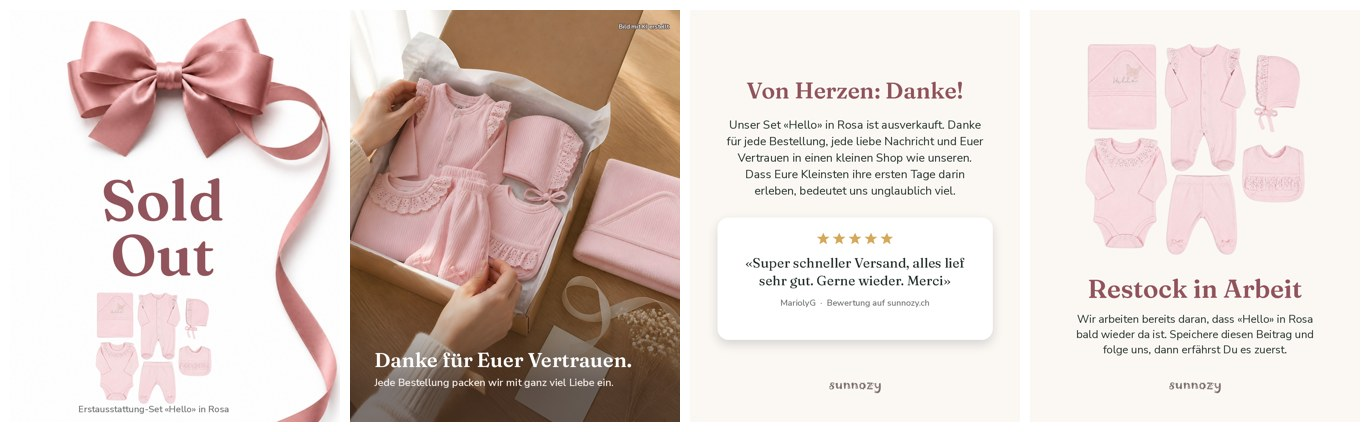
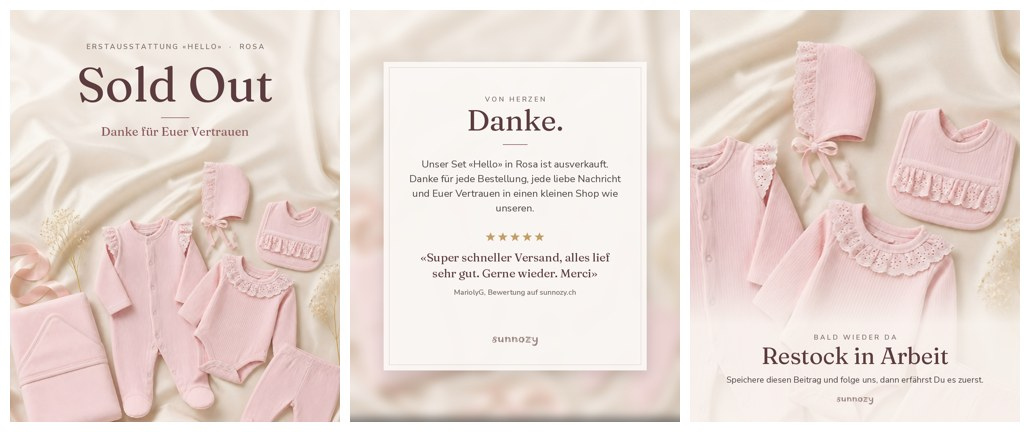
Sold-Out-Post «Hello» Rosa: elegante Version mit Set-Foto im Hintergrund
Claude-Session: https://claude.ai/code/session_01Mcsz2CcqhytaxPLftYR6o2

diff --git a/sunnozy-content/tools/make_post_hello_ausverkauft.py b/sunnozy-content/tools/make_post_hello_ausverkauft.py
@@ -1,32 +1,24 @@
 """Instagram-Karussell (4:5) «Sold Out» für das Erstausstattung-Set «Hello» in Rosa, 27.10.2026.
-Idee der Nutzerin: Schleife mit langem Band und «Sold Out» in einer Serifenschrift (hier Fraunces, keine Schreibschrift).
+Zweite Version (Wunsch der Nutzerin: eleganter, Bild vom Set im Hintergrund): alle drei Bilder auf dem
+KI-Foto des Sets auf cremefarbener Seide, Schrift Fraunces 400 und Nunito Sans (keine Schreibschrift).
 
     python3 tools/make_post_hello_ausverkauft.py
 
-1  Sold Out: Schleife (KI, Canva) + Titel + freigestelltes Set
-2  Danke: KI-Foto, Hände packen das Set in eine Geschenkbox
-3  Danke-Text + echte Bewertung (MariolyG, Judge.me, wörtlich)
-4  Restock in Arbeit (ohne Datum, kein Versprechen)
+1  Sold Out: Set-Foto, Titel oben auf der leeren Seide
+2  Danke: Set-Foto weichgezeichnet, helle Karte mit Danke-Text und echter Bewertung (MariolyG, wörtlich)
+3  Restock in Arbeit: Ausschnitt des Sets, Text unten (ohne Datum)
 Ausgabe: posts/instagram/hello-ausverkauft/slide_<n>_4x5.jpg + uebersicht.jpg
 """
-import os, math
+import os, math, glob
 import numpy as np
 from PIL import Image, ImageDraw, ImageFont, ImageFilter
 
 ROOT = os.path.dirname(os.path.dirname(os.path.abspath(__file__)))
 OUT = os.path.join(ROOT, 'posts', 'instagram', 'hello-ausverkauft')
-BILD = os.path.join(OUT, 'bilder')
-SET = os.path.join(ROOT, 'posts', 'marktplatz-galaxus-amazon', 'freigestellt', 'set_hello_schmetterling.png')
+FOTO = os.path.join(OUT, 'bilder', 'set_seide_ki.jpg')
 W, H = 1080, 1350
-CREME, WALD, GRAU, ROSE, STERN = (251, 248, 244), (35, 48, 41), (112, 118, 114), (146, 84, 92), (214, 168, 92)
+TIEF, ROSE, TAUPE, STERN = (92, 60, 62), (138, 86, 92), (124, 108, 102), (196, 158, 104)
 F = lambda n, s: ImageFont.truetype(os.path.join(ROOT, 'fonts', n), int(s))
-
-
-def fuellen(im, w, h, fx=0.5, fy=0.5):
-    s = max(w / im.width, h / im.height)
-    t = im.resize((round(im.width * s), round(im.height * s)), Image.LANCZOS)
-    x = int((t.width - w) * fx); y = int((t.height - h) * fy)
-    return t.crop((x, y, x + w, y + h))
 
 
 def logo(width, col):
@@ -35,6 +27,14 @@ def logo(width, col):
     L = Image.new('RGBA', (a.shape[1], a.shape[0]), col + (0,)); L.putalpha(Image.fromarray((al * 255).astype(np.uint8)))
     L = L.crop(L.getbbox())
     return L.resize((width, round(L.height * width / L.width)), Image.LANCZOS)
+
+
+def gesperrt(d, cx, y, text, font, farbe, sp):
+    """Text mit Buchstabenabstand, mittig."""
+    breite = sum(d.textlength(c, font=font) for c in text) + sp * (len(text) - 1)
+    x = cx - breite / 2
+    for c in text:
+        d.text((x, y), c, font=font, fill=farbe, anchor='ls'); x += d.textlength(c, font=font) + sp
 
 
 def umbrechen(d, text, font, breite):
@@ -48,80 +48,102 @@ def umbrechen(d, text, font, breite):
     return zeilen + [z]
 
 
-def absatz(d, x, y, text, font, farbe, breite, zeilenhoehe, anchor='ma'):
+def absatz(d, x, y, text, font, farbe, breite, zh):
     for z in umbrechen(d, text, font, breite):
-        d.text((x, y), z, font=font, fill=farbe, anchor=anchor); y += zeilenhoehe
+        d.text((x, y), z, font=font, fill=farbe, anchor='ma'); y += zh
     return y
 
 
-def sterne(d, cx, y, r=20, abstand=52):
+def sterne(d, cx, y, r=15, abstand=40):
     for i in range(5):
         x0 = cx + (i - 2) * abstand
         pts = [(x0 + (r if k % 2 == 0 else r * 0.45) * math.sin(k * math.pi / 5), y - (r if k % 2 == 0 else r * 0.45) * math.cos(k * math.pi / 5)) for k in range(10)]
         d.polygon(pts, fill=STERN)
 
 
-def set_bild(breite):
-    im = Image.open(SET).convert('RGBA'); im = im.crop(im.getbbox())
-    return im.resize((breite, round(im.height * breite / im.width)), Image.LANCZOS)
+def linie(d, cx, y, halb, farbe):
+    d.line((cx - halb, y, cx + halb, y), fill=farbe, width=2)
+
+
+def basis(versatz=0):
+    """Set-Foto auf 4:5; mit versatz>0 nach unten geschoben, oben mit gespiegelter, weicher Seide ergänzt."""
+    im = Image.open(FOTO).convert('RGB')
+    im = im.resize((W, round(im.height * W / im.width)), Image.LANCZOS)
+    c = Image.new('RGB', (W, H))
+    c.paste(im.crop((0, 0, W, H - versatz)), (0, versatz))
+    if versatz:
+        oben = im.crop((0, 0, W, versatz + 60)).transpose(Image.FLIP_TOP_BOTTOM).filter(ImageFilter.GaussianBlur(6))
+        maske = Image.linear_gradient('L').resize((W, versatz + 60)).point(lambda v: 255 if v < 200 else int((255 - v) * 255 / 55))
+        c.paste(oben, (0, 0), maske)
+    return c
+
+
+def schleier(c, y0, y1, farbe=(250, 245, 240), staerke=0.75, unten=False):
+    """Cremefarbener Verlauf hinter dem Text, für ruhige Lesbarkeit."""
+    g = np.zeros((H, 1), np.float32)
+    n = y1 - y0
+    werte = np.clip(np.linspace(1, 0, n), 0, 1) ** 1.4 * staerke if not unten else np.clip(np.linspace(0, 1, n), 0, 1) ** 1.4 * staerke
+    g[y0:y1, 0] = werte
+    if not unten:
+        g[:y0, 0] = staerke
+    else:
+        g[y1:, 0] = staerke
+    lay = Image.new('RGBA', (W, H), farbe + (0,)); lay.putalpha(Image.fromarray((g * 255).astype(np.uint8)).resize((W, H)))
+    return Image.alpha_composite(c.convert('RGBA'), lay)
 
 
 def slide1():
-    c = fuellen(Image.open(os.path.join(BILD, 'schleife_ki.jpg')).convert('RGB'), W, H, 0.5, 0.0).convert('RGBA')
-    d = ImageDraw.Draw(c); cx = 500
-    f = F('fraunces-600.ttf', 188)
-    d.text((cx, 690), 'Sold', font=f, fill=ROSE, anchor='ms'); d.text((cx, 870), 'Out', font=f, fill=ROSE, anchor='ms')
-    s = set_bild(380); c.alpha_composite(s, (cx - s.width // 2 - 30, 925))
-    d.text((cx - 30, 1318), 'Erstausstattung-Set «Hello» in Rosa', font=F('nunitosans-600.ttf', 30), fill=GRAU, anchor='ms')
+    c = schleier(basis(170), 330, 560, staerke=0.55); d = ImageDraw.Draw(c)
+    gesperrt(d, W / 2, 128, 'ERSTAUSSTATTUNG «HELLO»  ·  ROSA', F('nunitosans-600.ttf', 23), TAUPE, 5)
+    d.text((W / 2, 300), 'Sold Out', font=F('fraunces-400.ttf', 158), fill=TIEF, anchor='ms')
+    linie(d, W / 2, 352, 46, ROSE)
+    d.text((W / 2, 412), 'Danke für Euer Vertrauen', font=F('fraunces-400.ttf', 40), fill=ROSE, anchor='ms')
     return c.convert('RGB')
 
 
 def slide2():
-    c = fuellen(Image.open(os.path.join(BILD, 'verpacken_ki.jpg')).convert('RGB'), W, H, 0.5, 0.35).convert('RGBA')
-    g = np.zeros((H, 1), np.float32); g[820:, 0] = np.clip(np.arange(H - 820) / 420.0, 0, 1) ** 1.2 * 0.62
-    sch = Image.new('RGBA', (W, H), (40, 28, 26, 0)); sch.putalpha(Image.fromarray((g * 255).astype(np.uint8)).resize((W, H)))
-    c = Image.alpha_composite(c, sch); d = ImageDraw.Draw(c)
-    y = absatz(d, 80, 1105, 'Danke für Euer Vertrauen.', F('fraunces-600.ttf', 66), (255, 255, 255), 920, 78, 'la')
-    absatz(d, 80, y + 14, 'Jede Bestellung packen wir mit ganz viel Liebe ein.', F('nunitosans-600.ttf', 34), (248, 240, 236), 920, 44, 'la')
-    d.text((W - 36, 40), 'Bild mit KI erstellt', font=F('nunitosans-600.ttf', 20), fill=(255, 255, 255), anchor='ra', stroke_width=2, stroke_fill=(90, 75, 70))
+    b = basis(0).filter(ImageFilter.GaussianBlur(16))
+    c = Image.blend(b, Image.new('RGB', (W, H), (250, 245, 240)), 0.35).convert('RGBA')
+    karte = (110, 170, W - 110, H - 170)
+    sh = Image.new('RGBA', (W, H), (0, 0, 0, 0)); ImageDraw.Draw(sh).rectangle((karte[0], karte[1] + 16, karte[2], karte[3] + 16), fill=(60, 40, 40, 40))
+    c = Image.alpha_composite(c, sh.filter(ImageFilter.GaussianBlur(22)))
+    k = Image.new('RGBA', (W, H), (0, 0, 0, 0)); ImageDraw.Draw(k).rectangle(karte, fill=(252, 249, 246, 238))
+    c = Image.alpha_composite(c, k); d = ImageDraw.Draw(c)
+    d.rectangle((karte[0] + 18, karte[1] + 18, karte[2] - 18, karte[3] - 18), outline=(214, 190, 186), width=1)
+    cx = W / 2
+    gesperrt(d, cx, 300, 'VON HERZEN', F('nunitosans-600.ttf', 22), TAUPE, 6)
+    d.text((cx, 395), 'Danke.', font=F('fraunces-400.ttf', 96), fill=TIEF, anchor='ms')
+    linie(d, cx, 440, 40, ROSE)
+    y = absatz(d, cx, 482, 'Unser Set «Hello» in Rosa ist ausverkauft. Danke für jede Bestellung, jede liebe Nachricht '
+               'und Euer Vertrauen in einen kleinen Shop wie unseren.', F('nunitosans-400.ttf', 33), (78, 70, 68), 700, 48)
+    sterne(d, cx, y + 70)
+    y = absatz(d, cx, y + 112, '«Super schneller Versand, alles lief sehr gut. Gerne wieder. Merci»', F('fraunces-400.ttf', 38), TIEF, 690, 52)
+    d.text((cx, y + 18), 'MariolyG, Bewertung auf sunnozy.ch', font=F('nunitosans-600.ttf', 24), fill=TAUPE, anchor='ma')
+    L = logo(150, (150, 128, 122)); c.alpha_composite(L, (int(cx - L.width / 2), karte[3] - 110))
     return c.convert('RGB')
 
 
 def slide3():
-    c = Image.new('RGBA', (W, H), CREME + (255,)); d = ImageDraw.Draw(c)
-    d.text((W / 2, 290), 'Von Herzen: Danke!', font=F('fraunces-600.ttf', 74), fill=ROSE, anchor='ms')
-    y = absatz(d, W / 2, 350, 'Unser Set «Hello» in Rosa ist ausverkauft. Danke für jede Bestellung, jede liebe Nachricht '
-               'und Euer Vertrauen in einen kleinen Shop wie unseren. Dass Eure Kleinsten ihre ersten Tage darin erleben, '
-               'bedeutet uns unglaublich viel.', F('nunitosans-400.ttf', 38), WALD, 860, 54)
-    # Bewertungskarte (echt, wörtlich)
-    top = y + 60; karte = (90, top, W - 90, top + 400)
-    sh = Image.new('RGBA', (W, H), (0, 0, 0, 0)); ImageDraw.Draw(sh).rounded_rectangle((karte[0], karte[1] + 14, karte[2], karte[3] + 14), 36, fill=(0, 0, 0, 38))
-    c = Image.alpha_composite(c, sh.filter(ImageFilter.GaussianBlur(16))); d = ImageDraw.Draw(c)
-    d.rounded_rectangle(karte, 36, fill=(255, 255, 255))
-    sterne(d, W / 2, top + 70)
-    yy = absatz(d, W / 2, top + 120, '«Super schneller Versand, alles lief sehr gut. Gerne wieder. Merci»', F('fraunces-400.ttf', 44), WALD, 760, 58)
-    d.text((W / 2, yy + 24), 'MariolyG  ·  Bewertung auf sunnozy.ch', font=F('nunitosans-600.ttf', 28), fill=GRAU, anchor='ma')
-    L = logo(170, (122, 108, 104)); c.alpha_composite(L, ((W - L.width) // 2, H - 130))
-    return c.convert('RGB')
-
-
-def slide4():
-    c = Image.new('RGBA', (W, H), CREME + (255,)); d = ImageDraw.Draw(c)
-    s = set_bild(720); c.alpha_composite(s, ((W - s.width) // 2, 110))
-    y = 110 + s.height + 70
-    d.text((W / 2, y + 70), 'Restock in Arbeit', font=F('fraunces-600.ttf', 84), fill=ROSE, anchor='ms')
-    y = absatz(d, W / 2, y + 115, 'Wir arbeiten bereits daran, dass «Hello» in Rosa bald wieder da ist. '
-               'Speichere diesen Beitrag und folge uns, dann erfährst Du es zuerst.', F('nunitosans-400.ttf', 36), WALD, 840, 50)
-    L = logo(170, (122, 108, 104)); c.alpha_composite(L, ((W - L.width) // 2, H - 130))
+    im = Image.open(FOTO).convert('RGB')
+    # Ausschnitt: Body mit Spitzenkragen und Häubchen
+    x0, y0 = int(im.width * 0.40), int(im.height * 0.20); bw = int(im.width * 0.58); bh = int(bw * H / W)
+    c = im.resize((W, H), Image.LANCZOS, box=(x0, y0, x0 + bw, y0 + bh))
+    c = schleier(c, 760, 1030, staerke=0.88, unten=True); d = ImageDraw.Draw(c)
+    gesperrt(d, W / 2, 1080, 'BALD WIEDER DA', F('nunitosans-600.ttf', 22), TAUPE, 6)
+    d.text((W / 2, 1160), 'Restock in Arbeit', font=F('fraunces-400.ttf', 76), fill=TIEF, anchor='ms')
+    absatz(d, W / 2, 1192, 'Speichere diesen Beitrag und folge uns, dann erfährst Du es zuerst.', F('nunitosans-400.ttf', 28), (78, 70, 68), 960, 40)
+    L = logo(120, (150, 128, 122)); c.alpha_composite(L, (int(W / 2 - L.width / 2), 1268))
     return c.convert('RGB')
 
 
 if __name__ == '__main__':
     os.makedirs(OUT, exist_ok=True)
-    alle = [slide1(), slide2(), slide3(), slide4()]
+    for alt in glob.glob(os.path.join(OUT, 'slide_*_4x5.jpg')):
+        os.remove(alt)
+    alle = [slide1(), slide2(), slide3()]
     for i, im in enumerate(alle, 1):
         im.save(os.path.join(OUT, f'slide_{i}_4x5.jpg'), quality=93)
-    u = Image.new('RGB', (4 * 330 + 50, 412 + 20), 'white')
+    u = Image.new('RGB', (len(alle) * 340 + 10, 432), 'white')
     for i, im in enumerate(alle):
         u.paste(im.resize((330, 412)), (10 + i * 340, 10))
     u.save(os.path.join(OUT, 'uebersicht.jpg'), quality=88)

diff --git a/sunnozy-content/posts/instagram/hello-ausverkauft/README.md b/sunnozy-content/posts/instagram/hello-ausverkauft/README.md
@@ -1,15 +1,16 @@
 # Sold Out: Erstausstattung-Set «Hello» in Rosa (27.10.2026)
 
-Karussell, 4 Bilder im Format 4:5 (1080 × 1350). Erstellt mit `tools/make_post_hello_ausverkauft.py`.
+Karussell, 3 Bilder im Format 4:5 (1080 × 1350). Erstellt mit `tools/make_post_hello_ausverkauft.py`.
+Zweite, elegantere Version (27.10.2026): alle Bilder mit dem Set auf cremefarbener Seide im Hintergrund.
 
 | Datei | Inhalt |
 |---|---|
-| `slide_1_4x5.jpg` | «Sold Out» mit rosa Schleife und Band (Idee der Nutzerin), darunter das Set |
-| `slide_2_4x5.jpg` | Hände packen das Set in eine Geschenkbox, «Danke für Euer Vertrauen.» |
-| `slide_3_4x5.jpg` | Danke-Text und die echte Bewertung von MariolyG (Judge.me, wörtlich) |
-| `slide_4_4x5.jpg` | «Restock in Arbeit», ohne Datum |
+| `slide_1_4x5.jpg` | «Sold Out» oben auf der Seide, darunter das ganze Set |
+| `slide_2_4x5.jpg` | Set weichgezeichnet, helle Karte mit «Danke.» und der echten Bewertung von MariolyG (Judge.me, wörtlich) |
+| `slide_3_4x5.jpg` | Nahaufnahme Häubchen, Lätzchen, Body mit Spitzenkragen; «Restock in Arbeit», ohne Datum |
 
-Die Schleife (`bilder/schleife_ki.jpg`) und das Verpackungsfoto (`bilder/verpacken_ki.jpg`) sind mit KI erstellt (Canva). Beim Posten «Mit KI erstellt» einschalten.
+Das Set-Foto (`bilder/set_seide_ki.jpg`) ist mit KI erstellt (Canva, nach dem Shop-Produktbild). Beim Posten «Mit KI erstellt» einschalten.
+Die erste Version (Schleife, Verpackungsfoto) gefiel nicht und ist gelöscht (in der Git-Historie noch vorhanden).
 
 ## Text für den Beitrag
 
